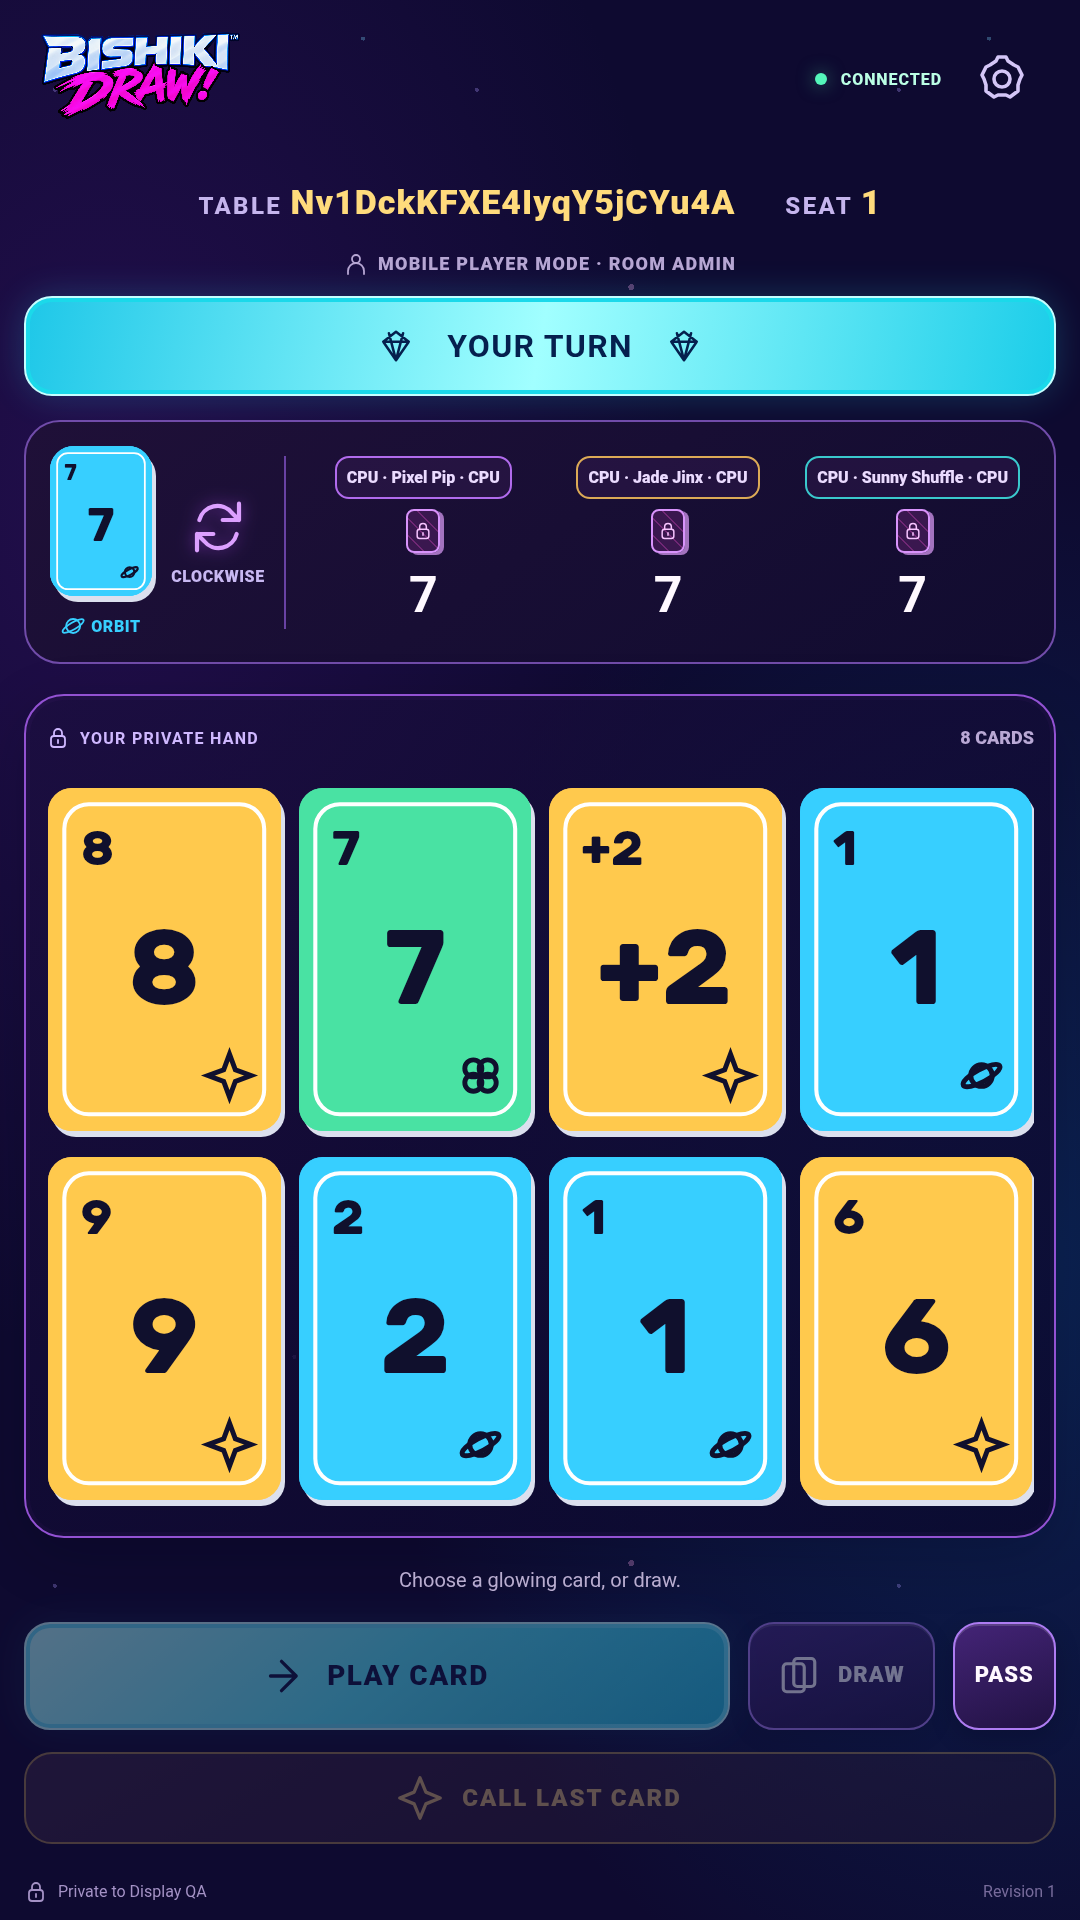
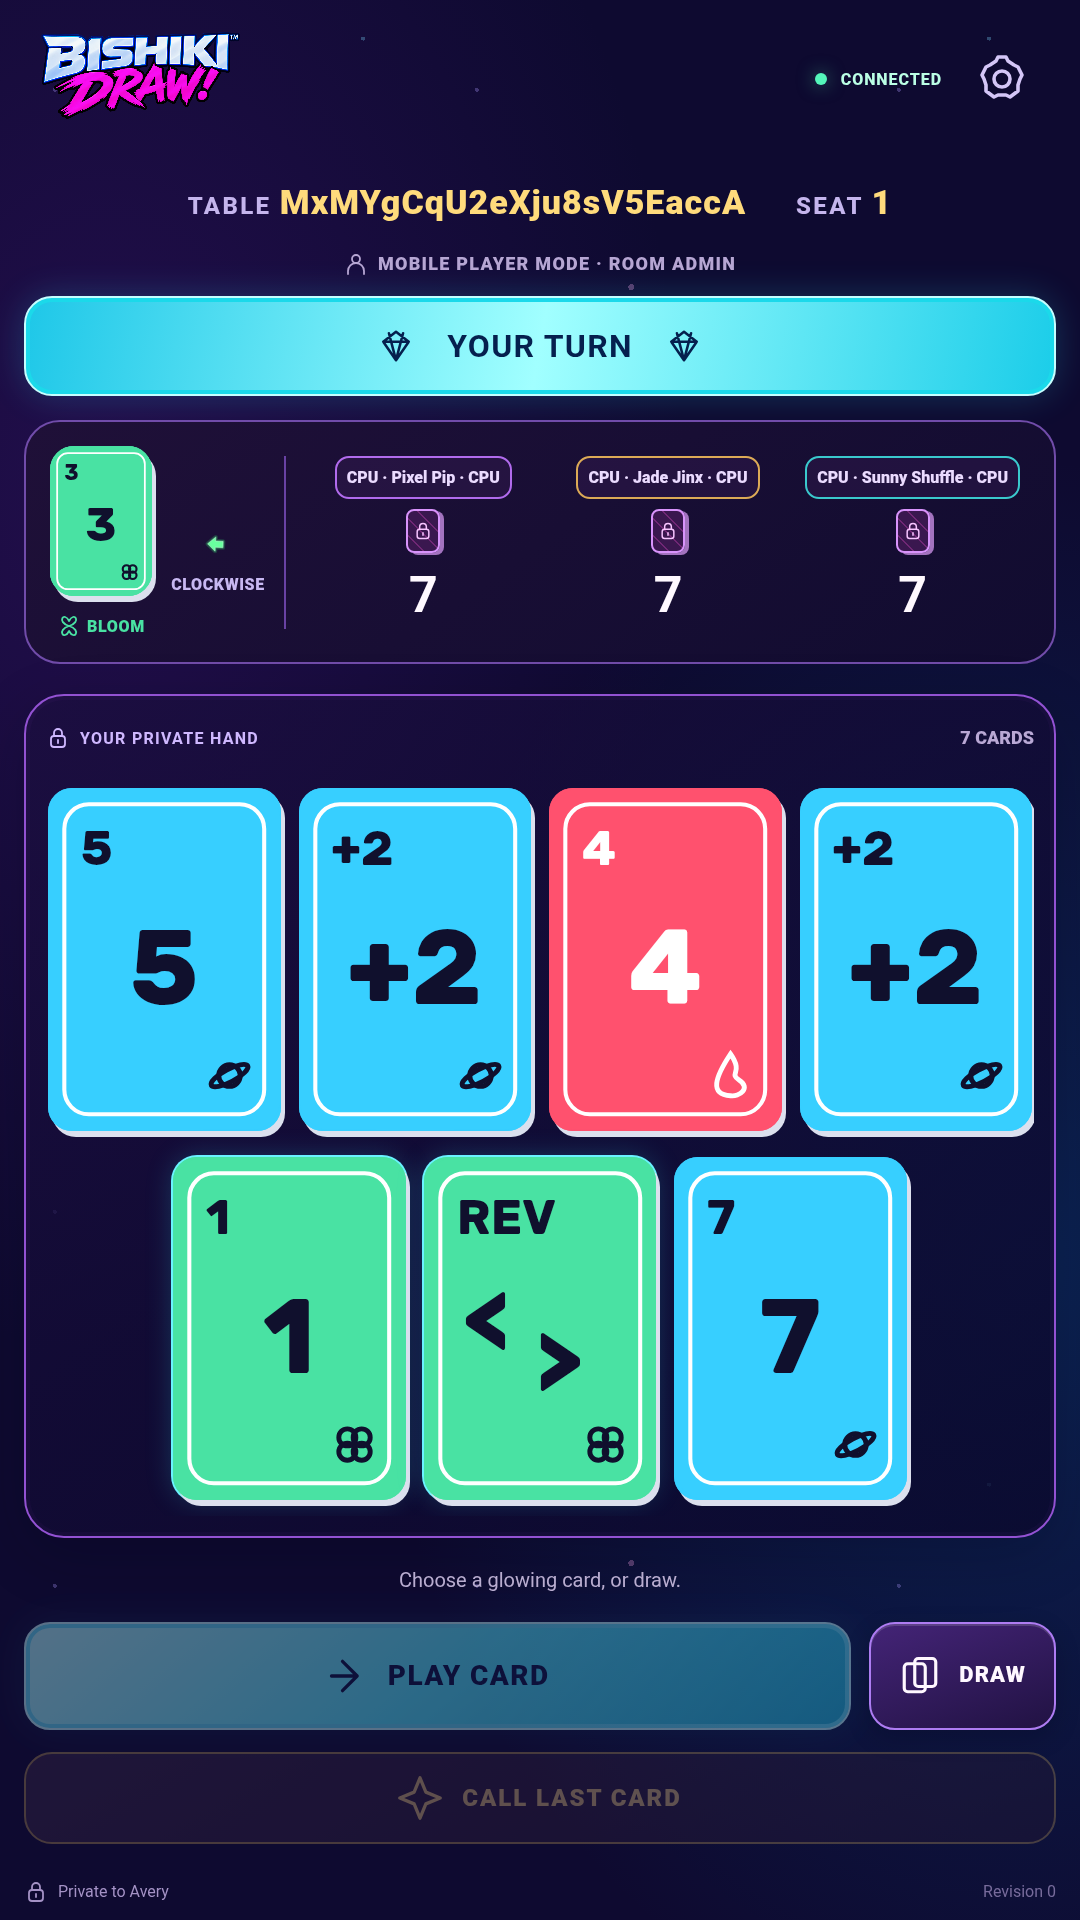
Refresh Bishiki DRAW screenshots with current turn-flow UI

diff --git a/docs/us-gamer/index.html b/docs/us-gamer/index.html
@@ -58,9 +58,9 @@
       <div class="draw-intro"><img class="draw-logo" src="../assets/us-gamer/draw/bishiki-draw-logo.png" alt="Bishiki DRAW" width="1900" height="828" loading="lazy"><p class="lead">Play together on Android, with or without a TV.</p><p>Gather up to four players. In Mobile Play, each phone shows the shared table and its owner’s cards. Connect the Room Admin’s compatible Samsung DeX or Android desktop display to put the public game on TV, while every player keeps a private hand on their phone.</p></div>
     </div>
     <div class="draw-gallery" aria-label="Bishiki DRAW TV, mobile and companion views">
-      <figure class="draw-tv"><button class="image-button" type="button" data-image="../assets/us-gamer/draw/draw-tv.png" data-caption="Bishiki DRAW · Public TV table. Played cards, turns and card counts are shared; private hands stay on the phones." aria-label="Enlarge Bishiki DRAW TV table" aria-haspopup="dialog"><img src="../assets/us-gamer/draw/draw-tv.png" alt="Bishiki DRAW public TV table with four player seats, played card and draw pile; no private hands" width="1280" height="720" loading="lazy"><span class="expand-hint" aria-hidden="true">View TV table ↗</span></button><figcaption><strong>TV table</strong><span>The public board, with every hand kept private.</span></figcaption></figure>
-      <figure class="draw-mobile"><button class="image-button" type="button" data-image="../assets/us-gamer/draw/draw-mobile.png" data-caption="Bishiki DRAW · Mobile Play. The shared board appears above your own private cards in landscape." aria-label="Enlarge Bishiki DRAW mobile game" aria-haspopup="dialog"><img src="../assets/us-gamer/draw/draw-mobile.png" alt="Bishiki DRAW mobile landscape game with shared four-seat board and the current player’s private cards at the bottom" width="1920" height="1080" loading="lazy"><span class="expand-hint" aria-hidden="true">View mobile game ↗</span></button><figcaption><strong>Mobile Play</strong><span>The table and your cards, together on your phone.</span></figcaption></figure>
-      <figure class="draw-companion"><button class="image-button" type="button" data-image="../assets/us-gamer/draw/draw-companion.png" data-caption="Bishiki DRAW · TV + Mobile Play Hand. During a TV session, the portrait phone keeps its owner’s hand and play controls private." aria-label="Enlarge Bishiki DRAW TV mobile play hand" aria-haspopup="dialog"><img src="../assets/us-gamer/draw/draw-companion.png" alt="Bishiki DRAW portrait phone companion with private cards and play controls during a public TV session" width="1080" height="1920" loading="lazy"><span class="expand-hint" aria-hidden="true">View private hand ↗</span></button><figcaption><strong>TV + Mobile Play Hand</strong><span>A shared TV table. A private portrait hand.</span></figcaption></figure>
+      <figure class="draw-tv"><button class="image-button" type="button" data-image="../assets/us-gamer/draw/draw-tv.png?v=0.4.9-fecd9acc" data-caption="Bishiki DRAW · Public TV table. Played cards, turns and card counts are shared; private hands stay on the phones." aria-label="Enlarge Bishiki DRAW TV table" aria-haspopup="dialog"><img src="../assets/us-gamer/draw/draw-tv.png?v=0.4.9-fecd9acc" alt="Bishiki DRAW public TV table with four player seats, played card and draw pile; no private hands" width="1280" height="720" loading="lazy"><span class="expand-hint" aria-hidden="true">View TV table ↗</span></button><figcaption><strong>TV table</strong><span>The public board, with every hand kept private.</span></figcaption></figure>
+      <figure class="draw-mobile"><button class="image-button" type="button" data-image="../assets/us-gamer/draw/draw-mobile.png?v=0.4.9-fecd9acc" data-caption="Bishiki DRAW · Mobile Play. The shared board appears above your own private cards in landscape." aria-label="Enlarge Bishiki DRAW mobile game" aria-haspopup="dialog"><img src="../assets/us-gamer/draw/draw-mobile.png?v=0.4.9-fecd9acc" alt="Bishiki DRAW mobile landscape game with shared four-seat board and the current player’s private cards at the bottom" width="1920" height="1080" loading="lazy"><span class="expand-hint" aria-hidden="true">View mobile game ↗</span></button><figcaption><strong>Mobile Play</strong><span>The table and your cards, together on your phone.</span></figcaption></figure>
+      <figure class="draw-companion"><button class="image-button" type="button" data-image="../assets/us-gamer/draw/draw-companion.png?v=0.4.9-fecd9acc" data-caption="Bishiki DRAW · TV + Mobile Play Hand. During a TV session, the portrait phone keeps its owner’s hand and play controls private." aria-label="Enlarge Bishiki DRAW TV mobile play hand" aria-haspopup="dialog"><img src="../assets/us-gamer/draw/draw-companion.png?v=0.4.9-fecd9acc" alt="Bishiki DRAW portrait phone companion with private cards and play controls during a public TV session" width="1080" height="1920" loading="lazy"><span class="expand-hint" aria-hidden="true">View private hand ↗</span></button><figcaption><strong>TV + Mobile Play Hand</strong><span>A shared TV table. A private portrait hand.</span></figcaption></figure>
     </div>
     <p class="draw-display-note">TV play requires a compatible external-display connection. Mobile Play works without a TV. Screens shown are captured from the Android app.</p>
     <div class="draw-credits">
